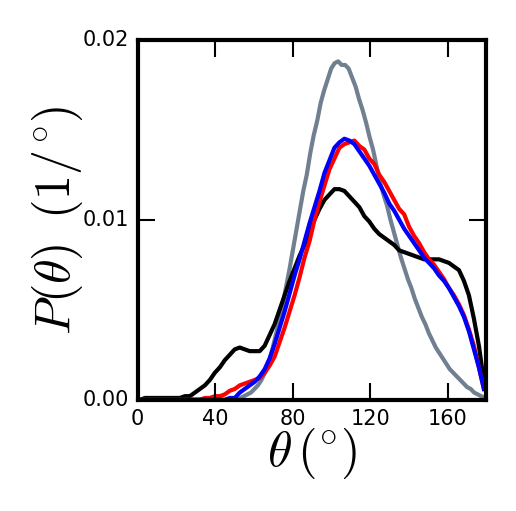
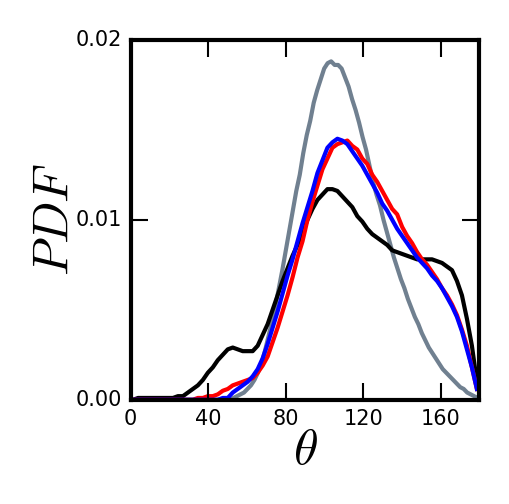
Adding in new figs

Changed region(s): [[0.0589, 0.0595, 0.943, 0.9524], [0.9136, 0.4167, 0.943, 0.4464], [0.6483, 0.9226, 0.6778, 0.9524]]

diff --git a/python/plot_x.py b/python/plot_x.py
@@ -3,37 +3,44 @@ import numpy as np
 import matplotlib
 import matplotlib.pyplot as plt
 from matplotlib.ticker import *
-MaxNLocator.default_params['nbins']=2
+MaxNLocator.default_params['nbins']=4
 
 from csvfile import CSVFile
-from dics import colorL, dens
+from util import get_gr_lst
+from dics import colorL
+from dics import x_dgg as dens
 
 def plot_scatter(plt_nm, csvL, sep, ln):
     '''Using data from a histogram, plot several'''
     f = plt.figure(1, figsize = (1.5, 1.5))
     ax, ct, leg, mn = f.add_subplot(111), 0, [], ""
-    ax.yaxis.set_major_locator(MaxNLocator())
-    MaxNLocator.default_params['nbins']=5
+    matplotlib.rcParams.update({'font.size': 8})
     ax.xaxis.set_major_locator(MaxNLocator())
+    ax.yaxis.set_major_locator(MaxNLocator())
     for i in range(len(csvL)):
         for j in range(len(csvL[i])):
+           dat = csvL[i][j].dat
            fn = csvL[i][j].csvfname.split("_")
-           sep = int(fn[0][3:])
-           if "bulk" != dens[sep][0]: lg = "{0:.3f}".format(dens[sep][0])
-           else:                          lg = "bulk"
-           ax.plot(csvL[i][j].dat[0],csvL[i][j].dat[1],
-                   color = dens[sep][1], label=lg)
-           mn += fn[0][3:] + "_";  ct += 1
-   #ax.legend(ncol = 1, columnspacing = -0.4,
-   #    fontsize =  6 , handletextpad = -0.1,
-   #    handlelength = 1.2, borderaxespad = -0.9,
-   #    bbox_to_anchor = (0.32,0.91),
-   #    )
-    ax.set_xlim([0,180]); ax.set_ylim([0,0.02])
-    ax.set_xlabel(r"$\theta$",fontsize= 12)
-    ax.set_ylabel(r"$PDF$",fontsize= 12)
+           mn += fn[0][3:] + "_"; dn = int(fn[0][3:])
+
+           lg = dens[dn][0]
+           
+           if dens[dn][2] == "--": dsh = (2,1)
+           else:                   dsh = (None,None)
+           print(csvL[i][j].key)
+           ax.plot(dat[0], dat[1], dens[dn][2],
+                   color = dens[dn][1], dashes = dsh, label=lg)
+           ct += 1
+    ax.legend(ncol = 5, columnspacing = 0.4,
+        fontsize =  5, handletextpad = 0.2,
+        handlelength = 1.3, borderaxespad = -0.9,
+        bbox_to_anchor = (1.0,1.12),
+        )
+    ax.set_xlim([0.2,0.8]);#ax.set_ylim([0,10.0])
+    ax.set_ylabel(r"PDF",fontsize=12)
+    ax.set_xlabel("$x/d_{gg}$",fontsize=12)
     ax.yaxis.labelpad = -0.6; ax.xaxis.labelpad = -0.6
-    fname = "ang_3B_"+mn[:-1]+".png"
+    fname = plt_nm+mn+csvL[i][j].csvfname[-7:-4]+".png"
     plt.savefig(fname, format='png', bbox_inches = 'tight', dpi=300) 
     plt.close()
 

diff --git a/python/plot_dist_gg.py b/python/plot_dist_gg.py
@@ -43,10 +43,31 @@ def plot_scatter(csv, sep, ln, itr):
     ax.yaxis.set_major_locator(MaxNLocator())
     matplotlib.rcParams['font.size'] = 5;
     plt.plot(x, y, color = "k")
+    plt.plot(np.ones(70)*10.5, np.linspace(0,2,70), color = "r")
     ax.set_xlabel("$d_{gg} \, (\AA$)",fontsize=7);ax.set_xlim([6.,20.])
     ax.set_ylabel("Probability $(1/\AA)$",fontsize=7);ax.set_ylim([0.,2.0])
     plt.savefig(csv.csvfname[:-3]+'g_sep_fit.png',bbox_inches = 'tight',)
     plt.close()
+
+   #ml = Y < 10.5
+   #bl = Y > 10.5
+   #Xml = X[ml]#/Y[ml].astype(float)
+   #Xbl = X[bl]#/Y[bl].astype(float)
+   #y_ml,x_ml = np.histogram(Xml, bins=nbins); dx = x_ml[1]-x_ml[0]
+   #x_ml = x_ml[:-1] + dx/2.;y_ml = y_ml/sum(y_ml.astype(float))/dx
+
+   #f = open("run121_46_1.diso_sep_fit.dat", "w")
+   #f.write("x_dgg,x_val\n")
+   #for i in range(len(x_ml)): f.write("{0:.5f},{1:.5f}\n".format(x_ml[i],y_ml[i]))
+   #f.close()
+
+   #y_bl,x_bl = np.histogram(Xbl, bins=nbins); dx = x_bl[1]-x_bl[0]
+   #x_bl = x_bl[:-1] + dx/2.;y_bl = y_bl/sum(y_bl.astype(float))/dx
+
+   #f = open("run122_46_1.diso_sep_fit.dat", "w")
+   #f.write("x_dgg,x_val\n")
+   #for i in range(len(x_bl)): f.write("{0:.5f},{1:.5f}\n".format(x_bl[i],y_bl[i]))
+   #f.close()
 
     y,x = np.histogram(X, bins=nbins); dx = x[1]-x[0]
     x = x[:-1] + dx/2.;y = y/sum(y.astype(float))/dx
@@ -60,6 +81,11 @@ def plot_scatter(csv, sep, ln, itr):
     ax.set_ylabel("Probability",fontsize=7);#ax.set_ylim([0.,15])
     plt.savefig(csv.csvfname[:-3]+'o_sep_fit.png',bbox_inches = 'tight',)
     plt.close()
+    f = open(csv.csvfname[:-3]+"o_sep_fit.dat", "w")
+    f.write("x_dgg,x_val\n")
+    for i in range(len(x)): f.write("{0:.5f},{1:.5f}\n".format(x[i],y[i]))
+    f.close()
+
 
     ## This is for 6A flex system which has some G-G contacts
    #nbins = 30

diff --git a/python/plot_vs_2D_density.py b/python/plot_vs_2D_density.py
@@ -26,16 +26,19 @@ def plot_scatter(csv):
 
     # graphene graphene separation
     elif "d_gg" in csv.csvfname:
-        plt_l = 0; ff, df, flx, fl = [], [], [], []; bbox, ncl = (0.52,0.99), 1
+        plt_l = 0; ff,df,flx,fl,rt,rtx = [],[],[],[],[],[]; 
+        bbox, ncl = (0.52,0.99), 1
         flexb = csv.dat[csv.find_keyword('dgg_f')]
         for j in range(flexb.shape[1]): 
             if flexb[1][j] != 0.:
+                rtx.append(dens[j]); rt.append(rigid[j])
                 ff.append(dens[j]); fl.append(flexb[0][j])
                 ff.append(dens[j]); fl.append(flexb[1][j])
             else:  df.append(dens[j]); flx.append(flexb[0][j])
-        plt.plot(ff, fl, 'mD', label = "multi")
-        plt.plot(df, flx, 'k.', label = "flexible")
-        plt.plot(dens, rigid, 'b.',label = "rigid")
+        plt.plot(ff, fl, 'kD')#label = "multi")
+        plt.plot(rtx, rt, 'bo', markersize = 5.4)
+        plt.plot(df, flx, 'kD', fillstyle="none", label = "flexible")
+        plt.plot(dens, rigid, 'bo', markersize = 5.4, fillstyle = "none",label = "rigid")
         ax.set_xlim([0.,0.40]);ax.set_ylim([3,15])
         ax.set_ylabel(r"$\langle d_{gg} \rangle \,\, (\AA)$",fontsize= 10)
 
@@ -61,7 +64,7 @@ def plot_scatter(csv):
         plt.text(txl[ll],texty,str(ll)+'L',fontsize=10, color = clr)
 
     ax.legend(ncol = ncl, fontsize=6, columnspacing = 0.2,handletextpad= 0.25,
-              bbox_to_anchor = bbox, handlelength = 2.1,
+              bbox_to_anchor = bbox, handlelength = 2.1,numpoints = 1,
               borderaxespad= 0.2)
     ax.set_xlabel(r"$\rho_{2D}$",fontsize= 10)
     plt.savefig(csv.csvfname[:-4]+'.png',bbox_inches = 'tight')

diff --git a/python/dics.py b/python/dics.py
@@ -30,10 +30,10 @@ dens = {
          16  :   [0.369, colorL[-4], "-"],
          20  :   [0.491, colorL[0], "-"],
          37  :   ["bulk", colorL[-1], "-"],   # for bulk
-         91  :   ["0.154 1L", colorL[0], "--"],
-         92  :   ["0.154 2L", colorL[0], "-"],
-         121 :   ["0.245 2L", colorL[0], "--"],
-         122 :   ["0.245 3L", colorL[0], "-"],
+         91  :   ["0.154 ML", colorL[0], "--"],
+         92  :   ["0.154 BL", colorL[0], "-"],
+         121 :   ["0.245 BL", colorL[0], "--"],
+         122 :   ["0.245 TL", colorL[0], "-"],
          131 :   ["0.276 mid", colorL[10], "--"],
          132 :   ["0.276 out", colorL[10], "-"],
          141 :   ["0.307 mid", colorL[1], "--"],
@@ -42,5 +42,15 @@ dens = {
          162 :   ["0.369 out", colorL[-4], "-"],
          201 :   ["0.491 mid", colorL[0], "--"],
          202 :   ["0.491 out", colorL[0], "-"],
+}
+
+x_dgg = {
+         8   :   ["Rigid", colorL[-4], "-"],
+         9   :   ["Rigid", colorL[-4], "-"],
+         12  :   ["Rigid", colorL[-4], "-"],
+         91  :   ["Flexible ML", colorL[1], "--"],
+         92  :   ["Flexible BL", colorL[1], "-"],
+         121 :   ["Flexible BL", colorL[1], "--"],
+         122 :   ["Flexible TL", colorL[1], "-"],
 }
 

diff --git a/python/plot_gr.py b/python/plot_gr.py
@@ -42,9 +42,9 @@ def plot_scatter(plt_nm, csvL, sep, ln):
    #    )
     ax.set_xlim([0,12.0]); ax.set_ylim([0,4.0])
     if "_1_2.csv" in csvL[i][j].csvfname:
-        ax.set_ylabel(r"$g_{{OH}}(R)$ (a.u.)",fontsize=12)
-    else: ax.set_ylabel(r"$g_{{OO}}$(R) (a.u.)",fontsize=12)
-    ax.set_xlabel("R ($\AA$)",fontsize=12)
+        ax.set_ylabel(r"$g_{{OH}}(r)$",fontsize=12)
+    else: ax.set_ylabel(r"$g_{{OO}}(r)$",fontsize=12)
+    ax.set_xlabel("$r \, (\AA)$",fontsize=12)
     ax.yaxis.labelpad = -0.6; ax.xaxis.labelpad = -0.6
     fname = plt_nm+mn+csvL[i][j].csvfname[-7:-4]+".png"
     plt.savefig(fname, format='png', bbox_inches = 'tight', dpi=300) 

diff --git a/python/util.py b/python/util.py
@@ -49,7 +49,8 @@ def get_gr_lst(csv_nm):
     elif sep_siz == 9:  cls = [5,15,18,27]
 
     elif sep_siz == 10 or sep_siz == 11: cls = [3,6,]
-    elif sep_siz == 12: cls = [7]
+    elif sep_siz == 12: 
+         cls = [7]; nfct = 1.1
     elif sep_siz == 131 or sep_siz == 141: cls =[5] # inner layer of 3L
     elif sep_siz == 132 or sep_siz == 142: cls =[3,7] # layer close to graph
     elif sep_siz == 161: cls =[5,7] #inner layer of 3/4
